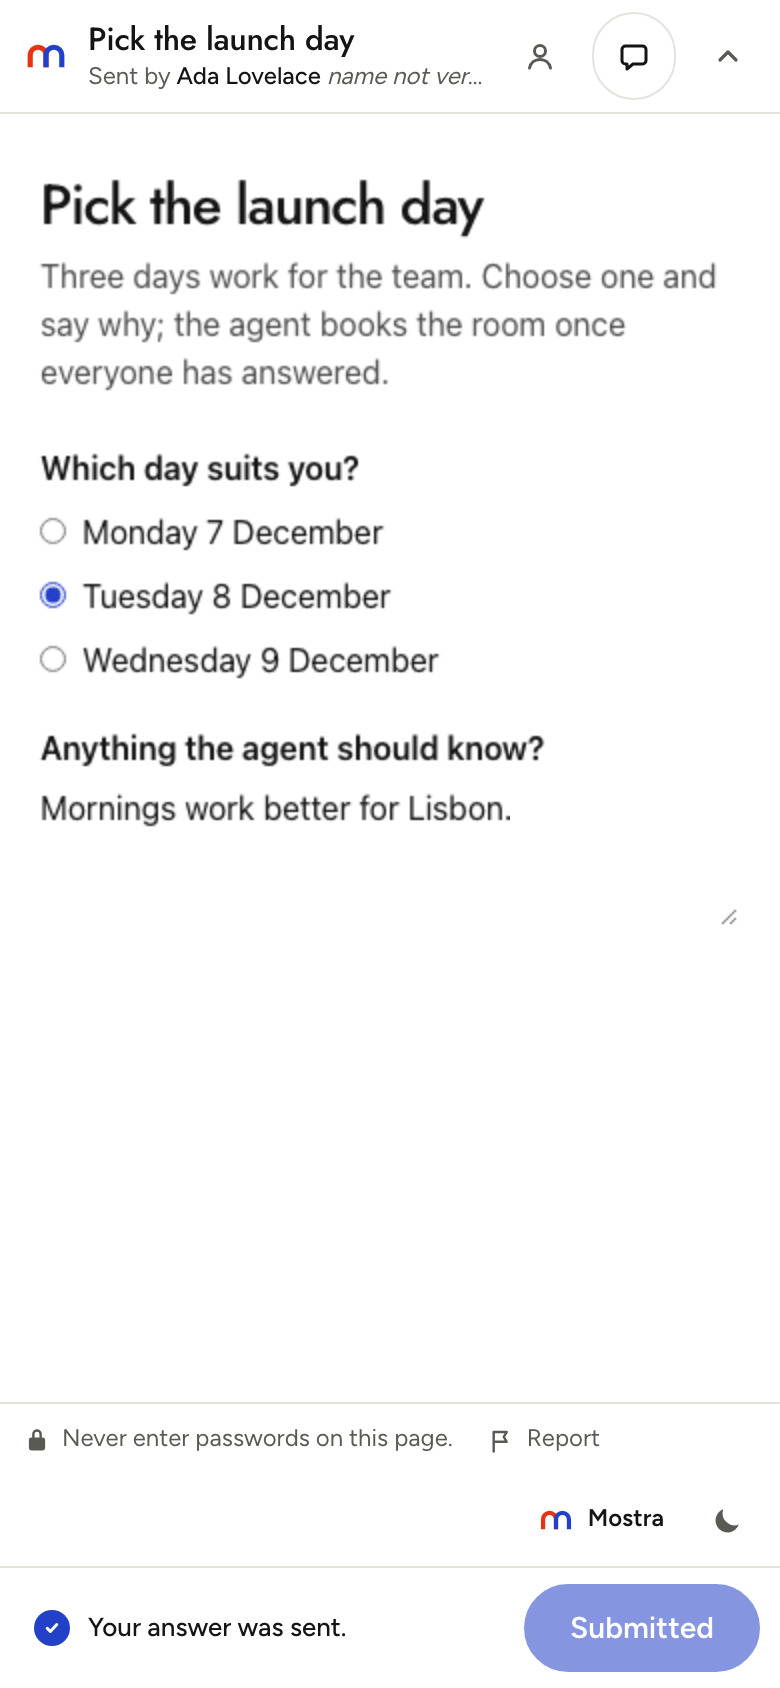
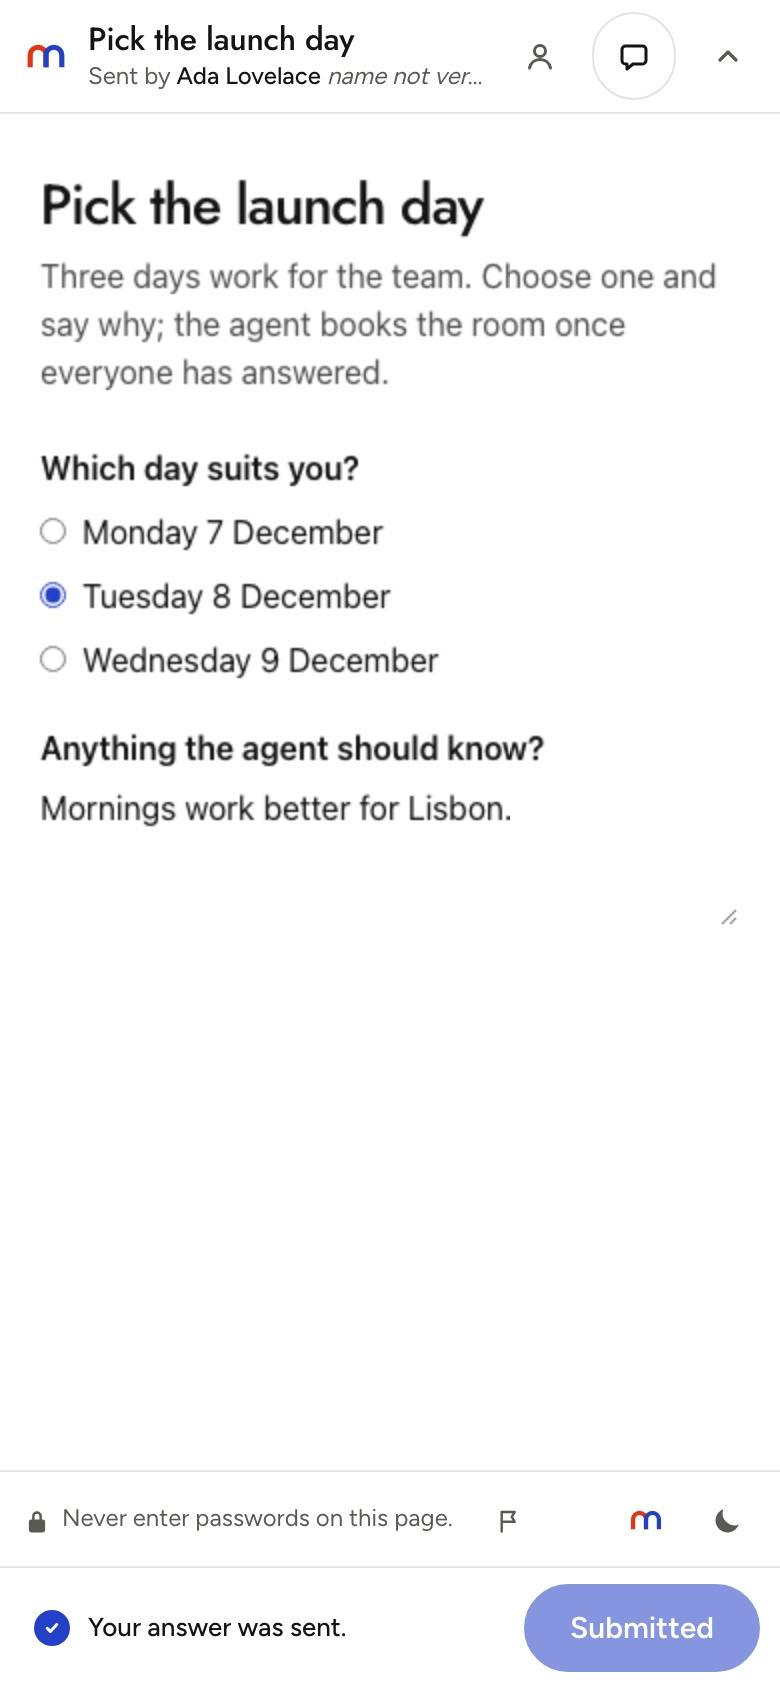
fix(shell): the hosted footer keeps one row on a phone

diff --git a/packages/shell/src/shell.css b/packages/shell/src/shell.css
@@ -1033,10 +1033,37 @@ body {
     inset-block-start: auto;
     inset-block-end: max(16px, env(safe-area-inset-bottom));
   }
+  /* One row on a phone (WP-20, Mirza's review): the warning keeps its words, wrapping inside its
+     own place if it must; Report and the made-with mark keep their icons, their words read by
+     screen readers. */
   .mostra-footer {
-    gap: 2px 14px;
+    flex-wrap: nowrap;
+    gap: 2px 12px;
     padding: 2px 4px 2px 12px;
     font-size: 0.75rem;
+  }
+  .mostra-footer-item[data-mostra-passwords] {
+    flex: 0 1 auto;
+    line-height: 1.3;
+  }
+  .mostra-footer-item[data-mostra-passwords] .mostra-icon-svg {
+    flex: none;
+  }
+  .mostra-footer-link,
+  .mostra-footer-end {
+    flex: none;
+  }
+  .mostra-footer-link {
+    min-inline-size: 32px;
+    justify-content: center;
+  }
+  .mostra-footer-words {
+    position: absolute;
+    width: 1px;
+    height: 1px;
+    overflow: hidden;
+    clip-path: inset(50%);
+    white-space: nowrap;
   }
   .mostra-made-line {
     display: none;

diff --git a/packages/shell/src/chrome.tsx b/packages/shell/src/chrome.tsx
@@ -478,7 +478,7 @@ export function MadeWith(props: { readonly chrome: HostedChrome }): ReactElement
     <>
       <MostraMark />
       <span className="mostra-sr">{HOSTED_WORDS.madeWithPrefix}</span>
-      <b>Mostra</b>
+      <b className="mostra-footer-words">Mostra</b>
       <span className="mostra-made-line">{HOSTED_WORDS.madeWith}</span>
     </>
   );
@@ -545,13 +545,15 @@ export function HostedFooter(props: {
         type="button"
         className="mostra-footer-item mostra-footer-link"
         data-mostra-report=""
+        title={HOSTED_WORDS.reportTitle}
         onClick={() => {
           setOutcome(undefined);
           setOpen(true);
         }}
       >
         <FlagIcon />
-        {HOSTED_WORDS.report}
+        {/* On a phone the flag stands alone, its word kept for screen readers. */}
+        <span className="mostra-footer-words">{HOSTED_WORDS.report}</span>
       </button>
       <span role="status" className="mostra-footer-item" data-mostra-report-outcome={outcome}>
         {outcome === "sent"

diff --git a/tests/e2e/specs/surfaces.spec.ts b/tests/e2e/specs/surfaces.spec.ts
@@ -450,6 +450,19 @@ test.describe("every surface a person meets (UX-01, D171)", () => {
           "sent",
         );
         await shoot(page, "hosted-sent");
+        // The footer is one row at any width (Mirza's review of WP-20): its items never wrap
+        // under each other, and Report keeps its name where only its flag shows.
+        const footer = page.locator("[data-mostra-footer]");
+        const items = await footer
+          .locator("[data-mostra-passwords], [data-mostra-report], .mostra-footer-end")
+          .evaluateAll((nodes) =>
+            nodes.map((node) => {
+              const box = node.getBoundingClientRect();
+              return box.top + box.height / 2;
+            }),
+          );
+        expect(Math.max(...items) - Math.min(...items)).toBeLessThan(8);
+        await expect(page.getByRole("button", { name: "Report" })).toBeVisible();
 
         // Linking a machine, signed in: approved and refused.
         const code = async (): Promise<string> => {

diff --git a/.changeset/wp20-footer.md b/.changeset/wp20-footer.md
@@ -1,0 +1,5 @@
+---
+"@mostra/shell": patch
+---
+
+The hosted footer keeps one row on a phone: Report and the made-with mark show their icons, their words kept for screen readers.
